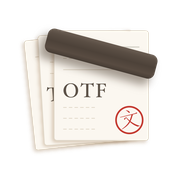
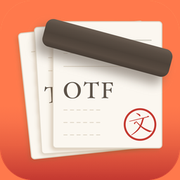
sync: 主仓库 d95a7ed（手机主屏图标改用带橙底的应用图标）
apple-touch-icon / icon-192 / icon-512 换成 static/icon.ico 那枚橙底图标（圆角补满成方形）。
浏览器 favicon 与网页内 logo 不变。

diff --git a/MANIFEST.md b/MANIFEST.md
@@ -5,8 +5,8 @@
 
 | 项 | 值 |
 |---|---|
-| 主仓库 commit | `1962b7980b60876901257e1e965b2d7e5bbcffc1`（branch main，工作树干净） |
-| 导出时间 | 2026-09-19T14:18:41.851Z |
+| 主仓库 commit | `d95a7ed37f770000ad6b791a91264edf9f9ce3d2`（branch main，工作树干净） |
+| 导出时间 | 2026-09-19T14:42:51.784Z |
 | 文件数 | 157 |
 
 逐文件 SHA-256（与信任页「源码自证」实时算出的哈希对照）：
@@ -97,10 +97,10 @@
[13 lines of base64/hex data omitted]
